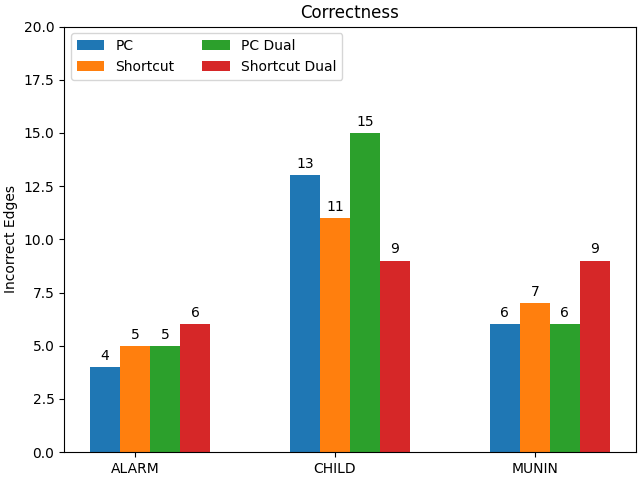
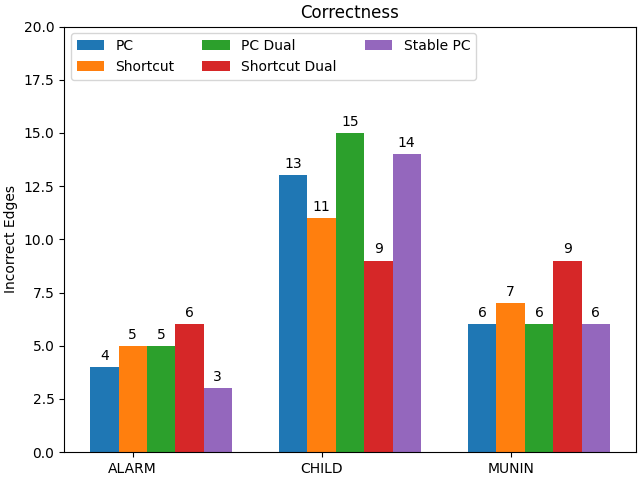
abc

diff --git a/src/structure_learning/pc.rs b/src/structure_learning/pc.rs
@@ -166,6 +166,10 @@ pub fn shortcut_pc_dual(data: DataFrame, answer: Digraph) -> (Graph, u32) {
             for y in graph.neighbors(x).clone() {
                 let (s, b, c) = sbc(&graph, x, y);
 
+                if (x, y) == (2, 4) || (x, y) == (4, 2) {
+
+                }
+
                 if b.len() > m { continue; }
                 for u in combinations(m - b.len(), s.iter().collect()) {
                     let u = u.into_iter().copied().collect();
@@ -199,13 +203,16 @@ pub fn shortcut_pc(data: DataFrame, answer: Digraph) -> (Graph, u32) {
 
     for m in 0..=graph.len() - 2 {
         if m > graph.max_degree() { continue; }
-
+        println!("m = {}", m);
         for x in 0..graph.len() {
             for y in graph.neighbors(x).clone() {
-                let (s, b, c) = sbc(&graph, x, y);
+                let (s, b, _c) = sbc(&graph, x, y);
 
                 if x == 2 && y == 4 {
-                    print!("");
+                    println!();
+                    println!("in 2-4_G: {:?}", graph.clone());
+                    println!("in 2-4_s: {:?}", s.clone());
+                    println!("in 2-4_b: {:?}", b.clone());
                 }
 
                 if b.len() > m { continue; }
@@ -215,6 +222,10 @@ pub fn shortcut_pc(data: DataFrame, answer: Digraph) -> (Graph, u32) {
 
                     ci_tests += 1;
                     if data.fake_conditionally_independent(x, y, sep_set.clone(), &answer) {
+                        println!(" Removing node {} -- {}", x, y);
+                        println!("  S_xy: {:?}", s.iter().copied().collect::<Vec<_>>());
+                        println!("  B_xy: {:?}", b.iter().copied().collect::<Vec<_>>());
+                        println!("  sepset: {:?}", sep_set);
                         graph.remove_edge(x, y);
                         sep_sets.insert((x, y), sep_set.into_iter().collect());
                     }
@@ -242,23 +253,19 @@ mod tests {
     fn sanity() {
         let nodes: Vec<_> = (0..6).map(|x| x.to_string()).collect();
 
-        let graph = crate::fixed_graphs::munin();
+        // let graph = crate::fixed_graphs::munin();
 
-        // let graph = {
-        //     let mut graph = Digraph::unconnected(nodes.clone());
-        //     graph.add_edge(0, 1);
-        //     graph.add_edge(0, 2);
-        //     graph.add_edge(1, 4);
-        //     graph.add_edge(2, 3);
-        //     graph.add_edge(4, 5);
-        //     // 0..5:
-        //     // graph.add_edge(0, 2);
-        //     // graph.add_edge(0, 3);
-        //     // graph.add_edge(1, 3);
-        //     // graph.add_edge(1, 4);
-        //     // graph.add_edge(2, 4);
-        //     graph
-        // };
+        let graph = {
+            let mut graph = Digraph::unconnected(nodes.clone());
+            graph.add_edge(0, 1);
+            graph.add_edge(1, 2);
+            graph.add_edge(2, 3);
+            graph.add_edge(0, 4);
+            graph.add_edge(4, 5);
+            graph
+        };
+        // 0 -> 1 -> 2 -> 3
+        // + -> 4 -> 5
 
         let df = {
             let mut df = DataFrame::new(nodes.clone());
@@ -286,8 +293,9 @@ mod tests {
 
         let ud = graph.clone().undirected();
         println!("===========");
-        // println!("actual: {a:?}\nactual-undirected: {b:?}", b=graph.clone().undirected(),a=graph);
-        // println!("pc-ac: {:?}\n, expt: {:?}", result_pc.clone(), graph.clone());
+        println!("expected: {a:?}\nexpected-undirected: {b:?}", b=graph.clone().undirected(),a=graph.clone());
+        println!("pc: {:?}", result_pc.clone());
+        println!("sc: {:?}", result_sc.clone());
         println!("pc: {:?} CI, {} ms (off by {})", ci_pc, time_pc.as_millis(), result_pc.edge_difference(&ud));
         println!("sc: {:?} CI, {} ms (off by {})", ci_sc, time_sc.as_millis(), result_sc.edge_difference(&ud));
         println!("pd: {:?} CI, {} ms (off by {})", ci_pd, time_pd.as_millis(), result_pd.edge_difference(&ud));

diff --git a/graph.py b/graph.py
@@ -7,6 +7,7 @@ ci_tests = {
     'Shortcut':      ( 84, 243, 240),
     'PC Dual':       (149, 240, 199),
     'Shortcut Dual': (127, 308, 250),
+    'Stable PC':     (158, 289, 250),
 }
 
 ms_ellapsed = {
@@ -14,6 +15,7 @@ ms_ellapsed = {
     'Shortcut':      (5, 259, 1046),
     'PC Dual':       (9, 408,  920),
     'Shortcut Dual': (8, 323, 1115),
+    'Stable PC':     (11, 282, 1539),
 }
 
 errors = {
@@ -21,26 +23,33 @@ errors = {
     'Shortcut':      (5, 11, 7),
     'PC Dual':       (5, 15, 6),
     'Shortcut Dual': (6,  9, 9),
+    'Stable PC':     (3, 14, 6),
 }
 
 
-x = np.arange(len(networks))  # the label locations
-width = 0.15  # the width of the bars
-multiplier = 0
+def export(title: str, ylabel: str, ylim: int, data, file: str):
+    x = np.arange(len(networks))  # the label locations
+    width = 0.15  # the width of the bars
+    multiplier = 0
 
-fig, ax = plt.subplots(layout='constrained')
+    fig, ax = plt.subplots(layout='constrained')
 
-for attribute, measurement in ms_ellapsed.items():
-    offset = width * multiplier
-    rects = ax.bar(x + offset, measurement, width, label=attribute)
-    ax.bar_label(rects, padding=3)
-    multiplier += 1
+    for attribute, measurement in data.items():
+        offset = width * multiplier
+        rects = ax.bar(x + offset, measurement, width, label=attribute)
+        ax.bar_label(rects, padding=3)
+        multiplier += 1
 
-# Add some text for labels, title and custom x-axis tick labels, etc.
-ax.set_ylabel('Milliseconds')
-ax.set_title('Time Taken')
-ax.set_xticks(x + width, networks)
-ax.legend(loc='upper left', ncols=2)
-ax.set_ylim(0, 1300)
+    # Add some text for labels, title and custom x-axis tick labels, etc.
+    ax.set_ylabel(ylabel)
+    ax.set_title(title)
+    ax.set_xticks(x + width, networks)
+    ax.legend(loc='upper left', ncols=3)
+    ax.set_ylim(0, ylim)
 
-plt.savefig('ms.png')
+    plt.savefig(file)
+
+
+export("Conditional Independence Tests", "CI Tests", 400, ci_tests, "ci.png")
+export("Time Taken", "Milliseconds", 1300, ms_ellapsed, "ms.png")
+export("Correctness", "Incorrect Edges", 20, errors, "err.png")

diff --git a/src/dataframe.rs b/src/dataframe.rs
@@ -158,15 +158,15 @@ impl DataFrame {
             if result >= 1e12 { return true; }
         }
 
-        let mut hasher = DefaultHasher::new();
-        x.hash(&mut hasher);
-        y.hash(&mut hasher);
-        zs.hash(&mut hasher);
-        let hash = hasher.finish();
+        // let mut hasher = DefaultHasher::new();
+        // x.hash(&mut hasher);
+        // y.hash(&mut hasher);
+        // zs.hash(&mut hasher);
+        // let hash = hasher.finish();
 
-        if hash < u64::MAX / 50 {
-            return !graph.d_separated(x, y, zs);
-        }
+        // if hash < u64::MAX / 50 {
+        //     return !graph.d_separated(x, y, zs);
+        // }
 
         return graph.d_separated(x, y, zs);
     }
